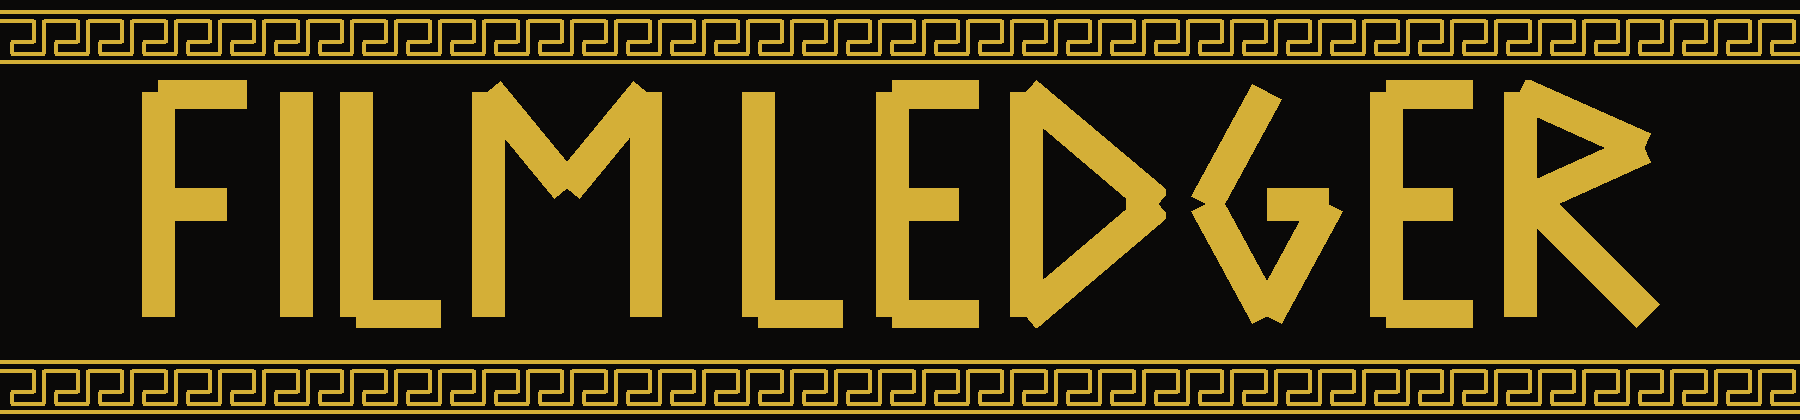
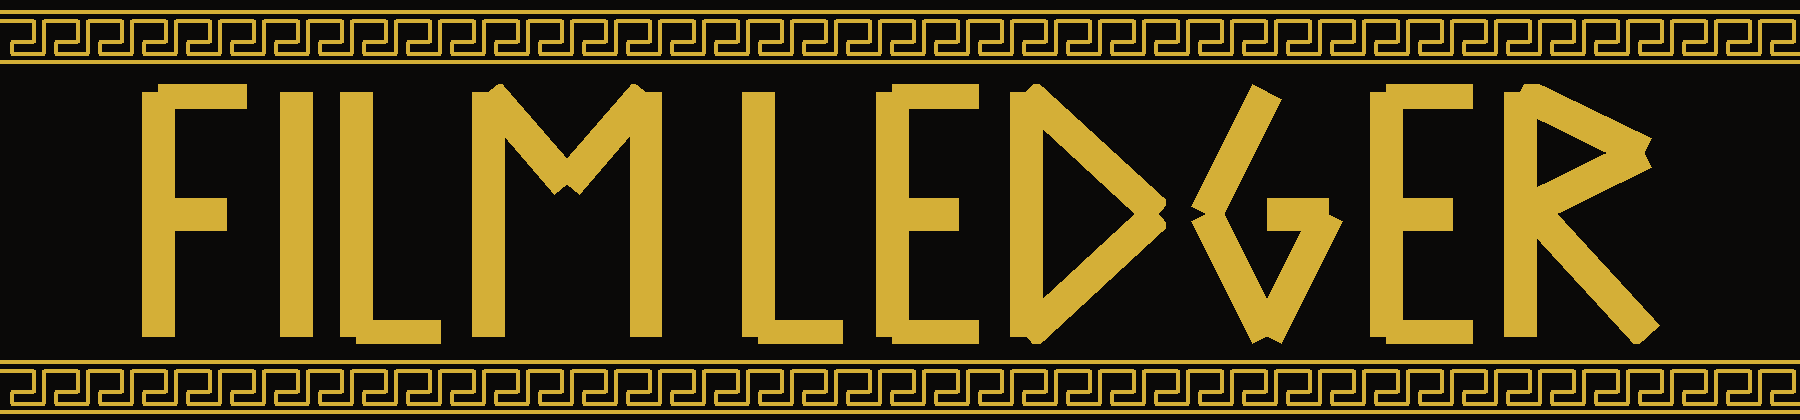
v5.52: letter baseline even with the frieze
Every letter ends on one line, parallel to the frieze.

diff --git a/index.html b/index.html
@@ -14,8 +14,8 @@
 <body>
   <div class="sticky-top">
     <div class="brand">
-      <img class="brand-mark" src="film-ledger-title.png?v=551" alt="Film Ledger">
-      <span class="brand-ver">v5.51</span>
+      <img class="brand-mark" src="film-ledger-title.png?v=552" alt="Film Ledger">
+      <span class="brand-ver">v5.52</span>
     </div>
 
     <div class="search-bar">
@@ -60,6 +60,6 @@
     <div id="least" class="tabs"></div>
   </div>
 
-  <script src="app.js?v=551"></script>
+  <script src="app.js?v=552"></script>
 </body>
 </html>

diff --git a/app.js b/app.js
@@ -1776,7 +1776,7 @@ function renderSettings() {
         ${ALL_TABS.map(([id, label]) => `<button type="button" class="tab-toggle${visibleTabs().has(id) ? ' on' : ''}" onclick="toggleTabVisibility('${id}')">${escapeHtml(label)}</button>`).join('')}
       </div>
     </div>
-    <p class="backup-note" style="margin-top:14px;">Film Ledger v5.51</p>
+    <p class="backup-note" style="margin-top:14px;">Film Ledger v5.52</p>
   `;
 }
 

diff --git a/service-worker.js b/service-worker.js
@@ -1,11 +1,11 @@
-const CACHE_NAME = 'film-ledger-v5.51';
+const CACHE_NAME = 'film-ledger-v5.52';
 const urlsToCache = [
   './',
   './index.html',
   './styles.css',
-  './app.js?v=551',
+  './app.js?v=552',
   './manifest.json',
-  './film-ledger-title.png?v=551'
+  './film-ledger-title.png?v=552'
 ];
 
 self.addEventListener('install', event => {
